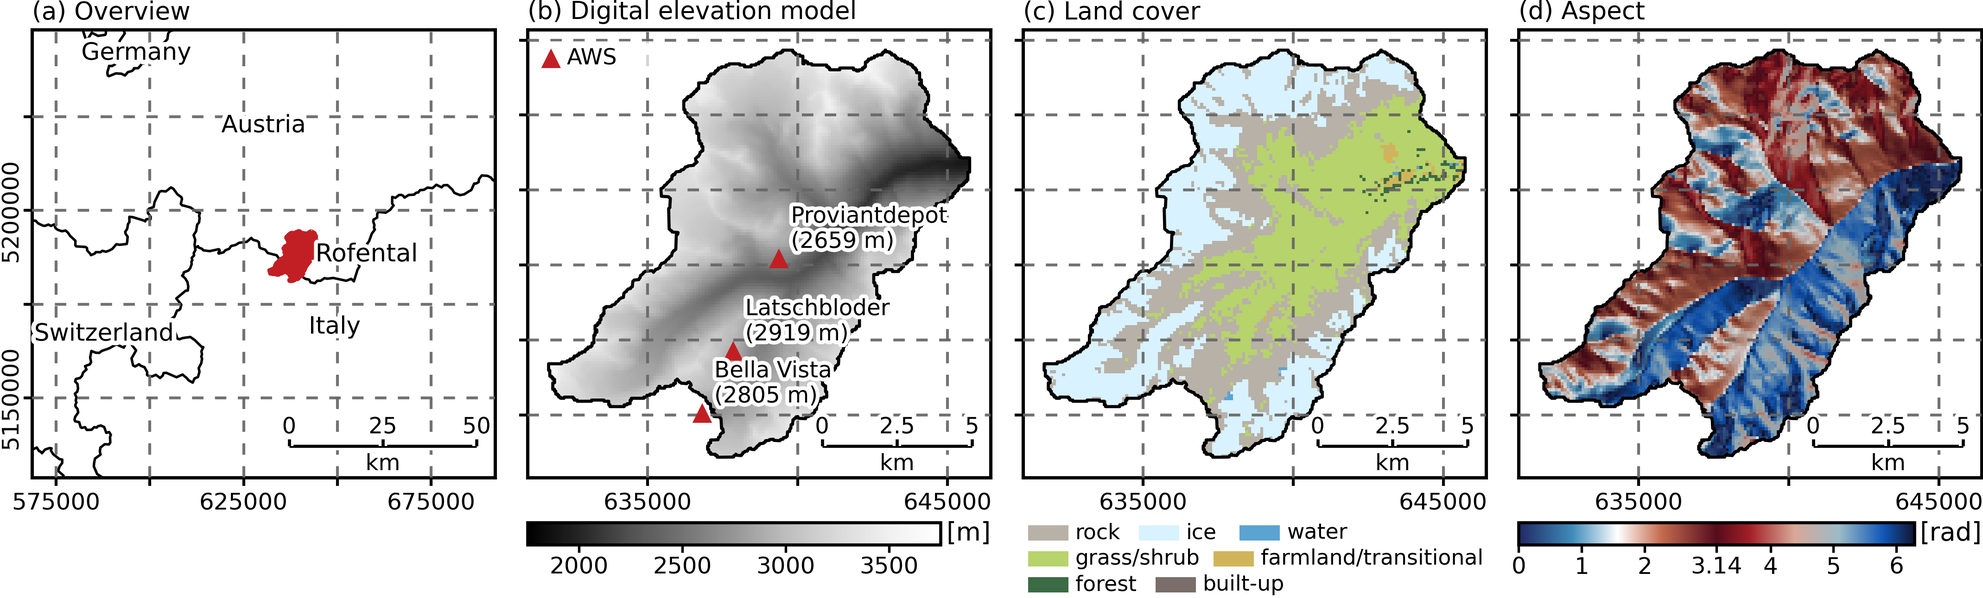
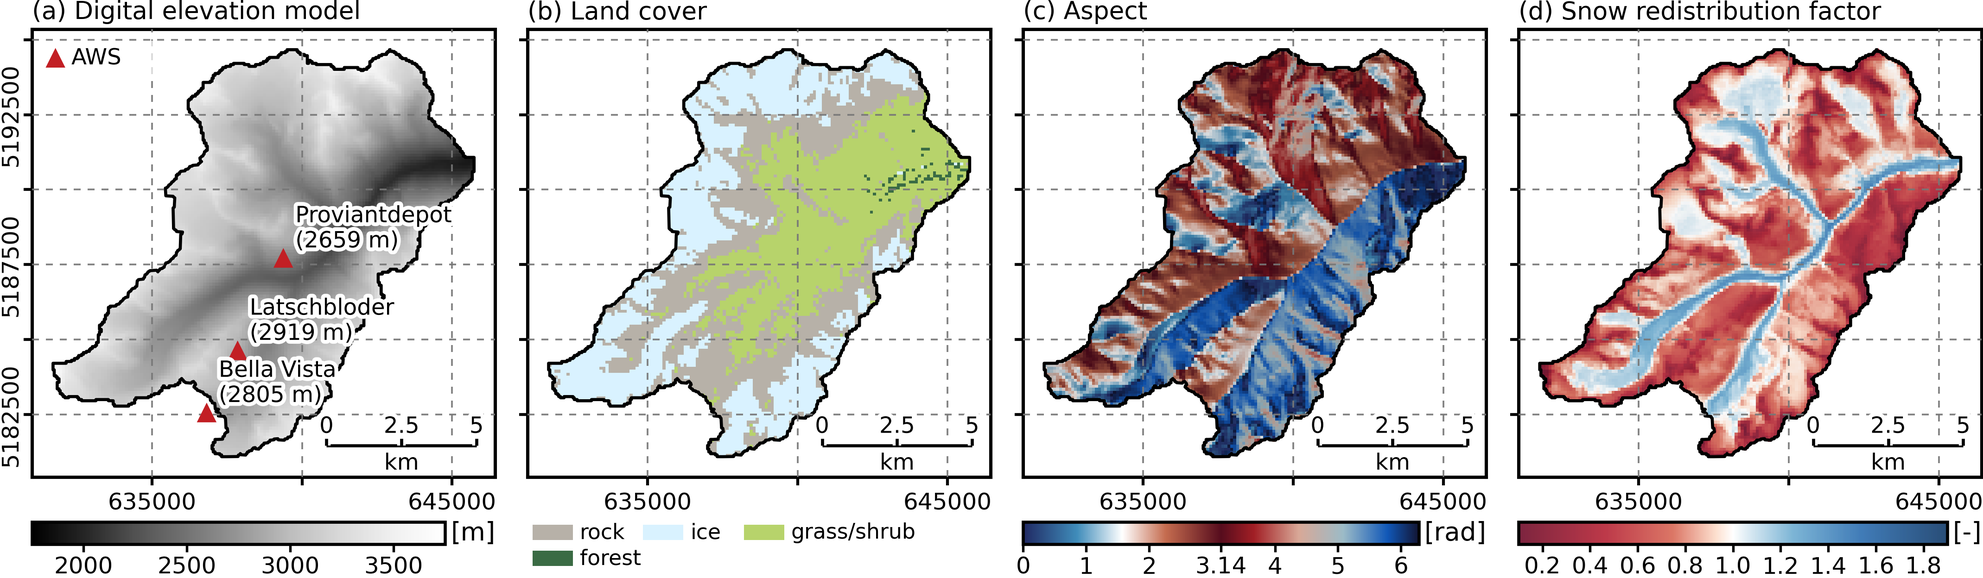
Refine Rofental map styling

diff --git a/tests/unit/test_project_maps.py b/tests/unit/test_project_maps.py
@@ -73,6 +73,7 @@ from openamundsen_da.methods.viz.maps.styles import (
     INCREMENT_CMAP,
     LANDCOVER_BROAD_CLASSES,
     LANDCOVER_COLORS,
+    LANDCOVER_ROFENTAL_MANUSCRIPT_CLASSES,
     SNOW_DEPTH_REFERENCE_TICKS_M,
     WET_SNOW_COLORS,
     WET_SNOW_LABELS,
@@ -88,7 +89,7 @@ from openamundsen_da.methods.viz.maps.styles import (
     static_field_cmap,
     static_field_colorbar_style,
 )
-from openamundsen_da.methods.viz.maps.theme import _COLORBAR_TICK_SIZE, _OVERVIEW_ROI_COLOR, _STATION_COLOR, _TICK_SIZE
+from openamundsen_da.methods.viz.maps.theme import _COLORBAR_TICK_SIZE, _GRID_COLOR, _GRID_WIDTH, _OVERVIEW_ROI_COLOR, _STATION_COLOR, _TICK_SIZE
 from openamundsen_da.util.run_mode import write_run_mode
 
 
@@ -1641,20 +1642,21 @@ def test_shipped_rofental_project_maps_config_matches_curated_recipe_set() -> No
     assert cfg.maps[0].layout.nrows == 1
     assert cfg.maps[0].layout.ncols == 4
     assert [panel.title for panel in cfg.maps[0].panels] == [
-        "Overview",
         "Digital elevation model",
         "Land cover",
         "Aspect",
+        "Snow redistribution factor",
     ]
-    assert [panel.kind for panel in cfg.maps[0].panels] == ["overview", "dem", "landcover", "aspect"]
+    assert [panel.kind for panel in cfg.maps[0].panels] == ["dem", "landcover", "aspect", "srf"]
     assert [(panel.row, panel.col) for panel in cfg.maps[0].panels] == [(0, 0), (0, 1), (0, 2), (0, 3)]
-    assert cfg.maps[0].panels[1].show_station_marker is True
-    assert cfg.maps[0].panels[1].show_stations_name is True
-    assert cfg.maps[0].panels[1].show_stations_elev is True
-    assert cfg.maps[0].panels[1].below_items == ()
-    assert cfg.maps[0].panels[1].inside_legend_items[0].label == "AWS"
-    assert cfg.maps[0].panels[2].landcover_grouping == "broad"
-    assert cfg.maps[0].panels[3].legend == "horizontal"
+    assert cfg.maps[0].panels[0].show_station_marker is True
+    assert cfg.maps[0].panels[0].show_stations_name is True
+    assert cfg.maps[0].panels[0].show_stations_elev is True
+    assert cfg.maps[0].panels[0].below_items == ()
+    assert cfg.maps[0].panels[0].inside_legend_items[0].label == "AWS"
+    assert cfg.maps[0].panels[1].landcover_grouping == "rofental_manuscript"
+    assert cfg.maps[0].panels[2].legend == "horizontal"
+    assert cfg.maps[0].panels[3].show_hillshade is True
 
 
 def test_shipped_subdomain_project_maps_config_keeps_generic_setup_overview_only() -> None:
@@ -2808,6 +2810,59 @@ def test_aspect_panel_masks_flat_no_aspect_cells(tmp_path: Path) -> None:
         plt.close(fig)
 
 
+def test_static_continuous_panel_can_use_hillshade_underlay(tmp_path: Path) -> None:
+    roi_mask = np.array(
+        [
+            [0, 0, 0, 0],
+            [0, 1, 1, 0],
+            [0, 1, 1, 0],
+            [0, 0, 0, 0],
+        ],
+        dtype=np.uint8,
+    )
+    _setup_dir, project_dir = _build_project_fixture(
+        tmp_path,
+        roi_mask=roi_mask,
+        roi_bounds=(100.0, 100.0, 300.0, 300.0),
+    )
+    context = load_static_context(project_dir)
+    extent = buffered_extent(context)
+    grid_extent = render_module._grid_extent(context)
+    fig_plain, ax_plain = plt.subplots(figsize=(3, 3))
+    fig_shaded, ax_shaded = plt.subplots(figsize=(3, 3))
+    try:
+        render_module._render_static_panel(
+            ax_plain,
+            panel=MapPanelSpec(kind="srf", row=0, col=0, show_colorbar=False),
+            context=context,
+            extent=extent,
+            grid_extent=grid_extent,
+            label=None,
+            defaults=MapDefaults(),
+            figure_horizontal_default=True,
+        )
+        render_module._render_static_panel(
+            ax_shaded,
+            panel=MapPanelSpec(kind="srf", row=0, col=0, show_colorbar=False, show_hillshade=True),
+            context=context,
+            extent=extent,
+            grid_extent=grid_extent,
+            label=None,
+            defaults=MapDefaults(),
+            figure_horizontal_default=True,
+        )
+
+        assert len(ax_plain.images) == 1
+        assert len(ax_shaded.images) == 2
+        underlay = np.ma.asarray(ax_shaded.images[0].get_array())
+        assert np.ma.getmaskarray(underlay)[0, 0]
+        assert not np.ma.getmaskarray(underlay)[1, 1]
+        assert ax_shaded.images[1].get_alpha() == pytest.approx(0.86)
+    finally:
+        plt.close(fig_plain)
+        plt.close(fig_shaded)
+
+
 def test_aspect_panel_uses_horizontal_radian_colorbar(tmp_path: Path) -> None:
     _setup_dir, project_dir = _build_project_fixture(tmp_path)
     context = load_static_context(project_dir)
@@ -3395,12 +3450,21 @@ def test_snowdepth_colorbar_ticks_keep_reference_style_with_dynamic_top_bin() ->
     assert snow_depth_colorbar_ticklabels(vmax) == ("0.01", "0.5", "1", "1.5", "2", "2.25")
 
 
-def test_increment_cmap_runs_from_negative_red_to_positive_blue() -> None:
+def test_increment_cmap_uses_compact_neutral_negative_red_positive_blue() -> None:
     low = INCREMENT_CMAP(0.0)
+    near_low = INCREMENT_CMAP(0.46)
+    center = INCREMENT_CMAP(0.5)
+    near_high = INCREMENT_CMAP(0.54)
     high = INCREMENT_CMAP(1.0)
 
+    assert INCREMENT_CMAP.name == "oa_da_diverging_compact"
     assert low[0] > low[2]
+    assert near_low[0] > near_low[2]
+    assert min(center[:3]) > 0.98
+    assert near_high[2] > near_high[0]
     assert high[2] > high[0]
+    assert sum(1.0 - value for value in near_low[:3]) > 0.20
+    assert sum(1.0 - value for value in near_high[:3]) > 0.12
 
 
 def test_scf_observation_palette_uses_greys_for_example_map_style() -> None:
@@ -3416,8 +3480,9 @@ def test_static_field_palettes_follow_reference_style() -> None:
 
     dem_cmap = static_field_cmap(dem_preset)
     svf_cmap = static_field_cmap(require_static_field_preset("svf"))
-    srf_cmap = static_field_cmap(require_static_field_preset("srf"))
-    srf_style = static_field_colorbar_style(require_static_field_preset("srf"))
+    srf_preset = require_static_field_preset("srf")
+    srf_cmap = static_field_cmap(srf_preset)
+    srf_style = static_field_colorbar_style(srf_preset)
 
     dem_low = dem_cmap(0.0)
     dem_high = dem_cmap(1.0)
@@ -3435,7 +3500,8 @@ def test_static_field_palettes_follow_reference_style() -> None:
     )
     assert static_field_colorbar_style(dem_preset, np.array([450.0, 1670.0])).ticks == (500.0, 1000.0, 1500.0)
     assert svf_cmap.name == "viridis"
-    assert srf_cmap.name == "RdBu"
+    assert srf_preset.cmap_name == "oa_da_diverging_compact"
+    assert srf_cmap is INCREMENT_CMAP
     assert sum(dem_high[:3]) > sum(dem_low[:3])
     assert sum(svf_high[:3]) > sum(svf_low[:3])
     assert srf_low[0] > srf_low[2]
@@ -3467,6 +3533,12 @@ def test_landcover_reference_colors_use_categorical_palette() -> None:
         LANDCOVER_COLORS[6],
         LANDCOVER_COLORS[10],
         LANDCOVER_COLORS[13],
+    ]
+    assert [(item.label, item.source_codes) for item in LANDCOVER_ROFENTAL_MANUSCRIPT_CLASSES] == [
+        ("rock", (1, 13)),
+        ("ice", (2, 3)),
+        ("grass/shrub", (4, 5, 6, 7)),
+        ("forest", (8, 9, 10, 11, 12)),
     ]
 
 
@@ -3517,6 +3589,8 @@ def test_map_axis_style_places_title_above_axes_and_can_hide_nonfirstcolumn_ylab
         assert all(not tick.label2.get_visible() for tick in ax.yaxis.get_major_ticks())
         assert grid_lines
         assert all(line.get_zorder() == 120 for line in grid_lines)
+        assert all(line.get_color() == _GRID_COLOR for line in grid_lines)
+        assert all(line.get_linewidth() == pytest.approx(_GRID_WIDTH) for line in grid_lines)
     finally:
         plt.close(fig)
 

diff --git a/openamundsen_da/methods/viz/maps/styles.py b/openamundsen_da/methods/viz/maps/styles.py
@@ -110,7 +110,7 @@ STATIC_FIELD_PRESETS = {
         field="srf",
         title="Snow redistribution factor",
         unit_label="SRF [-]",
-        cmap_name="RdBu",
+        cmap_name="oa_da_diverging_compact",
         vmin=0.1,
         vmax=1.9,
         center=1.0,
@@ -172,7 +172,7 @@ LANDCOVER_LABELS = {
 }
 
 UNKNOWN_LANDCOVER_COLOR = "#d9d9d9"
-SUPPORTED_LANDCOVER_GROUPINGS = {"native", "broad"}
+SUPPORTED_LANDCOVER_GROUPINGS = {"native", "broad", "rofental_manuscript"}
 LANDCOVER_BROAD_CLASSES = (
     LandcoverDisplayClass(1, "rock", LANDCOVER_COLORS[1], (1,)),
     LandcoverDisplayClass(2, "ice", LANDCOVER_COLORS[2], (2,)),
@@ -181,6 +181,12 @@ LANDCOVER_BROAD_CLASSES = (
     LandcoverDisplayClass(5, "farmland/transitional", LANDCOVER_COLORS[6], (6, 7)),
     LandcoverDisplayClass(6, "forest", LANDCOVER_COLORS[10], (8, 9, 10, 11, 12)),
     LandcoverDisplayClass(7, "built-up", LANDCOVER_COLORS[13], (13,)),
+)
+LANDCOVER_ROFENTAL_MANUSCRIPT_CLASSES = (
+    LandcoverDisplayClass(1, "rock", LANDCOVER_COLORS[1], (1, 13)),
+    LandcoverDisplayClass(2, "ice", LANDCOVER_COLORS[2], (2, 3)),
+    LandcoverDisplayClass(3, "grass/shrub", LANDCOVER_COLORS[4], (4, 5, 6, 7)),
+    LandcoverDisplayClass(4, "forest", LANDCOVER_COLORS[10], (8, 9, 10, 11, 12)),
 )
 
 FSC_OBS_CMAP = colormaps["Greys"]
@@ -214,7 +220,27 @@ def _snow_depth_reference_cmap() -> LinearSegmentedColormap:
 
 
 SNOW_DEPTH_CMAP = _snow_depth_reference_cmap()
-INCREMENT_CMAP = colormaps["RdBu"]
+
+
+def _compact_diverging_cmap() -> LinearSegmentedColormap:
+    return LinearSegmentedColormap.from_list(
+        "oa_da_diverging_compact",
+        (
+            (0.00, "#67001f"),
+            (0.20, "#b2182b"),
+            (0.36, "#d6604d"),
+            (0.46, "#fddbc7"),
+            (0.50, "#ffffff"),
+            (0.54, "#d1e5f0"),
+            (0.64, "#67a9cf"),
+            (0.80, "#2166ac"),
+            (1.00, "#053061"),
+        ),
+        N=512,
+    )
+
+
+INCREMENT_CMAP = _compact_diverging_cmap()
 SNOW_DEPTH_COLORBAR_STEPS_M = (0.05, 0.10, 0.25, 0.50, 1.0)
 ASPECT_COLORBAR_TICKS_RAD = (0.0, 1.0, 2.0, math.pi, 4.0, 5.0, 6.0)
 ASPECT_COLORBAR_TICKLABELS = ("0", "1", "2", "3.14", "4", "5", "6")
@@ -326,12 +352,19 @@ def landcover_classes_for_present_codes(
 ) -> tuple[LandcoverDisplayClass, ...]:
     token = normalize_landcover_grouping(grouping)
     if token == "broad":
+        grouping_classes = LANDCOVER_BROAD_CLASSES
+    elif token == "rofental_manuscript":
+        grouping_classes = LANDCOVER_ROFENTAL_MANUSCRIPT_CLASSES
+    else:
+        grouping_classes = ()
+
+    if grouping_classes:
         classes = [
             item
-            for item in LANDCOVER_BROAD_CLASSES
+            for item in grouping_classes
             if not present_source_codes or any(source_code in present_source_codes for source_code in item.source_codes)
         ]
-        covered_codes = {source_code for item in LANDCOVER_BROAD_CLASSES for source_code in item.source_codes}
+        covered_codes = {source_code for item in grouping_classes for source_code in item.source_codes}
     else:
         codes = sorted(present_source_codes) if present_source_codes else list(LANDCOVER_LABELS)
         classes = [
@@ -397,6 +430,8 @@ def model_colorbar_style(preset: VariablePreset, *, vmax: float | None = None) -
 def static_field_cmap(preset: StaticFieldPreset):
     if preset.field == "landcover":
         raise ValueError("Landcover colors are derived from present codes")
+    if preset.cmap_name == INCREMENT_CMAP.name:
+        return INCREMENT_CMAP
     return colormaps[preset.cmap_name]
 
 

diff --git a/openamundsen_da/methods/viz/maps/panel_renderers.py b/openamundsen_da/methods/viz/maps/panel_renderers.py
@@ -1311,7 +1311,26 @@ def render_static_panel(
     raw_data = field_array(context, field)
     data = masked(raw_data, context.roi_mask)
     norm = static_field_norm(preset, data.filled(np.nan))
-    image = ax.imshow(data, cmap=static_field_cmap(preset), norm=norm, extent=panel_grid_extent, origin="upper", interpolation="nearest", zorder=5)
+    alpha = 1.0
+    if resolve_flag(panel.show_hillshade, defaults, "show_hillshade", False):
+        hillshade_mode = resolve_hillshade_extent(panel, defaults, builtin="roi")
+        underlay = (
+            hillshade_underlay(context, derived_cache=derived_cache)
+            if hillshade_mode == "roi"
+            else hillshade(context, derived_cache=derived_cache)
+        )
+        ax.imshow(
+            underlay,
+            cmap="Greys_r",
+            extent=hillshade_extent(context),
+            origin="upper",
+            interpolation=_HILLSHADE_INTERPOLATION,
+            vmin=0.0,
+            vmax=1.0,
+            zorder=0,
+        )
+        alpha = 0.86
+    image = ax.imshow(data, cmap=static_field_cmap(preset), norm=norm, extent=panel_grid_extent, origin="upper", interpolation="nearest", alpha=alpha, zorder=5)
     overlay_invalid_inside_roi(ax, inside_roi_invalid_mask(raw_data, context.roi_mask), extent=panel_grid_extent)
     apply_common_overlays(
         ax,

diff --git a/openamundsen_da/methods/viz/maps/config.py b/openamundsen_da/methods/viz/maps/config.py
@@ -59,7 +59,7 @@ SUPPORTED_LEGEND_ITEM_PLACEMENTS = {"below", "inside"}
 SUPPORTED_LEGEND_ITEM_ANCHORS = {"top_left", "top_right", "bottom_left", "bottom_right"}
 SUPPORTED_PANEL_LEGEND_LAYOUTS = {"horizontal", "vertical"}
 SUPPORTED_HILLSHADE_EXTENTS = {"full", "roi"}
-SUPPORTED_LANDCOVER_GROUPINGS = {"native", "broad"}
+SUPPORTED_LANDCOVER_GROUPINGS = {"native", "broad", "rofental_manuscript"}
 _REMOVED_PANEL_KEYS = {"variable", "metric", "observation", "field", "style", "legend_inside"}
 _REMOVED_LAYOUT_KEYS = {"wspace", "hspace"}
 _REMOVED_PANEL_KINDS = {"stations", "static_field", "model_field", "increment_field", "observation_field", "roi_overview", "text"}

diff --git a/openamundsen_da/methods/viz/maps/theme.py b/openamundsen_da/methods/viz/maps/theme.py
@@ -5,9 +5,9 @@ _FIGURE_HEIGHT_MIN = 2.9
 _FIGURE_HEIGHT_MAX = 16.5
 _BUFFER_RATIO = 0.05
 _STATION_LABEL_RATIO = 0.04
-_GRID_COLOR = "#666666"
+_GRID_COLOR = "#777777"
 _GRID_STYLE = (0, (4, 4))
-_GRID_WIDTH = 0.74
+_GRID_WIDTH = 0.45
 _SPINE_WIDTH = 0.85
 _TICK_SIZE = 6.0
 _TICK_LABEL_MIN_GAP_IN = 0.42

diff --git a/docs/guides/cli.md b/docs/guides/cli.md
@@ -562,7 +562,7 @@ oa-da-plot-result-overview \
 **Publication-style project maps**
 
 Renders generated DA-event maps plus optional custom project maps from the compact project summary grid, setup grids, ROI, stations, and project observation summaries. By default the command generates one `da_*` map per assimilation event from the project YAML. `<project-dir>/maps.yml` is now reserved for custom maps such as `setup_overview`, and those custom maps are rendered together with the generated DA-event set in one command. The same workflow is also used for best-effort post-run pipeline rendering.
-Map panels use the example-map visual grammar by default: boxed axes, coordinate ticks and grid lines, subplot labels like `(a)`, and attached vertical colorbars. Continuous sequential model and observation maps use the viridis palette; snow-depth maps keep a shared linear colorbar scale per render run, `cm` tick labels, and transparent cells below `1 cm`. Increment maps and SRF maps use a signed red-blue diverging palette, with negative increments in red and positive increments in blue.
+Map panels use the example-map visual grammar by default: boxed axes, coordinate ticks and grid lines, subplot labels like `(a)`, and attached vertical colorbars. Continuous sequential model and observation maps use the viridis palette; snow-depth maps keep a shared linear colorbar scale per render run, `cm` tick labels, and transparent cells below `1 cm`. Increment maps and SRF maps use a compact-neutral signed red-blue diverging palette, with negative increments in red and positive increments in blue.
 
 Typical custom `maps.yml` files still use this panel catalog:
 
@@ -590,7 +590,7 @@ Typical custom `maps.yml` files still use this panel catalog:
 # - title, name, date, legend, legend_items, below_items
 # - show_colorbar, show_scalebar, show_grid, show_hillshade, hillshade_extent
 # - observation (uncertainty only), show_roi, show_station_marker, show_stations_name, show_stations_elev
-# - landcover_grouping: broad # landcover panels only; omitted/native keeps source classes
+# - landcover_grouping: broad | rofental_manuscript # landcover panels only; omitted/native keeps source classes
 # Optional recipe-level row zoom views:
 # row_views:
 #   - row: 1
@@ -616,7 +616,7 @@ oa-da-plot-project-maps \
 
 Generated `wet_snow` and `wet_snow_line` DA-event maps include a generated-only spatial elevation-band WSF row below the primary wet-snow row. Each panel keeps the map footprint, but every valid cell is colored by the raw wet snow fraction of its elevation band on a fixed white-to-black `0-100%` scale for open loop, posterior, and observation columns.
 
-Static context panels (`hillshade`, `dem`, `aspect`, `svf`, `srf`, `landcover`) mask raster cells outside the ROI. `aspect` is derived from the DEM at render time and shown on a continuous radian colorbar. `landcover` panels can set `landcover_grouping: broad` to merge detailed vegetation/forest classes into broad manuscript-friendly classes, and the legend only lists classes present inside the ROI. Non-legend panels can use `legend_items` with `placement: below` or `placement: inside` (`anchor: top_left|top_right|bottom_left|bottom_right`) for compact layer legends such as station symbols; legacy `below_items` remains supported. Model and observation panels remain ROI-masked. Prepared sub-domain projects automatically draw the configured sub-domain polygons from `subdomain_manifest.json` on top-level ROI-bearing map panels and overview panels. Generated DA-event maps mark a sub-domain as `no DA` only when the event was dropped locally and recorded in `results/subdomain_dropped_events.csv`; events with valid weights are not marked just because posterior resampling was skipped. When `show_hillshade: true`, `hillshade_extent: roi` limits the hillshade to the ROI mask and `hillshade_extent: full` draws it across the full panel. In the supported Docker workflow, omitted `--max-workers` uses automatic recipe-level multicore rendering with the effective worker count clamped to `min(visible CPUs, selected recipes)`; pass `--max-workers 1` to keep rendering sequential. If one or more maps fail because supporting data are missing, the pipeline logs a rerun command and continues. After changing shipped or local static grids, rerender the full local project-map catalog so mixed gallery outputs do not keep stale static panels.
+Static context panels (`hillshade`, `dem`, `aspect`, `svf`, `srf`, `landcover`) mask raster cells outside the ROI. `aspect` is derived from the DEM at render time and shown on a continuous radian colorbar. Continuous static panels such as `srf` can set `show_hillshade: true` to draw a terrain underlay. `landcover` panels can set `landcover_grouping: broad` to merge detailed vegetation/forest classes into broad manuscript-friendly classes, and the legend only lists classes present inside the ROI. The `rofental_manuscript` grouping is reserved for the Rofental paper/tutorial setup map, not for generic land-cover maps; it merges codes 1 and 13 as `rock`, 2 and 3 as `ice`, 4--7 as `grass/shrub`, and 8--12 as `forest`. Non-legend panels can use `legend_items` with `placement: below` or `placement: inside` (`anchor: top_left|top_right|bottom_left|bottom_right`) for compact layer legends such as station symbols; legacy `below_items` remains supported. Model and observation panels remain ROI-masked. Prepared sub-domain projects automatically draw the configured sub-domain polygons from `subdomain_manifest.json` on top-level ROI-bearing map panels and overview panels. Generated DA-event maps mark a sub-domain as `no DA` only when the event was dropped locally and recorded in `results/subdomain_dropped_events.csv`; events with valid weights are not marked just because posterior resampling was skipped. When `show_hillshade: true`, `hillshade_extent: roi` limits the hillshade to the ROI mask and `hillshade_extent: full` draws it across the full panel. In the supported Docker workflow, omitted `--max-workers` uses automatic recipe-level multicore rendering with the effective worker count clamped to `min(visible CPUs, selected recipes)`; pass `--max-workers 1` to keep rendering sequential. If one or more maps fail because supporting data are missing, the pipeline logs a rerun command and continues. After changing shipped or local static grids, rerender the full local project-map catalog so mixed gallery outputs do not keep stale static panels.
 
 The `uncertainty` panel renders GeoTIFF companion rasters named `<source>_uncertainty.tif` for `observation: scf` or `observation: wet_snow`. Values use the same `0..100 [%]` scale as uncertainty-aware preprocessing, and invalid observation pixels stay masked.
 

diff --git a/README.md b/README.md
@@ -537,7 +537,7 @@ Note: running the project pipeline (see below) also generates these plots automa
   # - title, name, date, legend, legend_items, below_items
   # - show_colorbar, show_scalebar, show_grid, show_hillshade, hillshade_extent
   # - observation (uncertainty only), show_roi, show_station_marker, show_stations_name, show_stations_elev
-  # - landcover_grouping: broad # landcover panels only; omitted/native keeps source classes
+  # - landcover_grouping: broad | rofental_manuscript # landcover panels only; omitted/native keeps source classes
   # Optional recipe-level row zoom views:
   # row_views:
   #   - row: 1
@@ -561,7 +561,7 @@ Note: running the project pipeline (see below) also generates these plots automa
   Generated DA-event rows use four consistent columns: `open loop`, `prior`, `posterior`, and `reference`. Snow-state reference columns show `analysis_increment` (`posterior - prior`, so positive values mean DA added snow/water). FSC and wet-snow reference columns show the satellite observation. Generated FSC, WSF, WSLA, and elevation-band WSF rows use spatial prior/posterior probability maps where applicable; WSLA contours are panel-local, so model columns do not overlay observation WSLA. Top-level sub-domain SCF events use a taller same-file layout with a 2x2 snow-cover block above the 2x2 snow-depth response block; exact rerendering requires retained per-sub-domain grids. If the event resampling manifest reports skipped resampling, the map title is suffixed with `resampling skipped`.
 
   By default the renderer parallelizes across independent recipe PNGs inside the Docker container and clamps the effective worker count to `min(visible CPUs, selected recipes)`; use `--max-workers 1` to force sequential rendering. `oa-da-project` and merged sub-domain runs also render project maps automatically as a best-effort post-run stage. If a map fails because supporting data are missing, the pipeline logs a rerun command and continues.
-  Project maps now use a simplified public panel catalog: context panels (`overview`, `roi`, `hillshade`, `dem`, `aspect`, `svf`, `srf`, `landcover`), result panels (`snow_depth`, `swe`, `liquid_water_content`, `fsc`, `wet_snow`, `uncertainty`, `wet_snow_line`, `wet_snow_elevation_fraction`), and optional support panels (`legend`, `colorbar`). Static context rasters are masked to the ROI; `aspect` is derived from the DEM at render time and shown on a continuous radian colorbar; `landcover` panels can set `landcover_grouping: broad` to merge detailed vegetation/forest classes into broad manuscript-friendly classes, and their legend only lists classes present inside the ROI. Non-legend panels can use `legend_items` with `placement: below` or `placement: inside` (`anchor: top_left|top_right|bottom_left|bottom_right`) for compact layer legends such as station symbols; legacy `below_items` remains supported. `uncertainty` renders `*_uncertainty.tif` companion rasters for `observation: scf` or `observation: wet_snow` on the valid observation support. In prepared sub-domain projects, top-level project maps automatically overlay the configured sub-domain polygons from `subdomain_manifest.json` on ROI-bearing map panels and overview panels. Generated DA-event maps additionally mark sub-domain polygons as `no DA` only when that event was dropped for the sub-domain and recorded in `results/subdomain_dropped_events.csv`; healthy events with computed weights are not marked just because resampling was skipped. Recipe-level `row_views` can assign a shared Google/Slippy-map zoom extent to every panel in a row. `wet_snow` renders WSF, while `wet_snow_line` renders the wet-snow raster context together with a DEM contour at the diagnosed WSLA. `prior_probability` and `posterior_probability` sources render spatial ensemble probability fields; observation overlays are kept in observation/reference panels.
+  Project maps now use a simplified public panel catalog: context panels (`overview`, `roi`, `hillshade`, `dem`, `aspect`, `svf`, `srf`, `landcover`), result panels (`snow_depth`, `swe`, `liquid_water_content`, `fsc`, `wet_snow`, `uncertainty`, `wet_snow_line`, `wet_snow_elevation_fraction`), and optional support panels (`legend`, `colorbar`). Static context rasters are masked to the ROI; `aspect` is derived from the DEM at render time and shown on a continuous radian colorbar, continuous static panels such as `srf` can use `show_hillshade: true` for a terrain underlay, and SRF and increment maps share a compact-neutral signed red-blue diverging palette. `landcover` panels can set `landcover_grouping: broad` to merge detailed vegetation/forest classes into broad manuscript-friendly classes, and their legend only lists classes present inside the ROI. The `rofental_manuscript` grouping is a Rofental paper/tutorial grouping, not a generic land-cover classification; it merges codes 1 and 13 as `rock`, 2 and 3 as `ice`, 4--7 as `grass/shrub`, and 8--12 as `forest`. Non-legend panels can use `legend_items` with `placement: below` or `placement: inside` (`anchor: top_left|top_right|bottom_left|bottom_right`) for compact layer legends such as station symbols; legacy `below_items` remains supported. `uncertainty` renders `*_uncertainty.tif` companion rasters for `observation: scf` or `observation: wet_snow` on the valid observation support. In prepared sub-domain projects, top-level project maps automatically overlay the configured sub-domain polygons from `subdomain_manifest.json` on ROI-bearing map panels and overview panels. Generated DA-event maps additionally mark sub-domain polygons as `no DA` only when that event was dropped for the sub-domain and recorded in `results/subdomain_dropped_events.csv`; healthy events with computed weights are not marked just because resampling was skipped. Recipe-level `row_views` can assign a shared Google/Slippy-map zoom extent to every panel in a row. `wet_snow` renders WSF, while `wet_snow_line` renders the wet-snow raster context together with a DEM contour at the diagnosed WSLA. `prior_probability` and `posterior_probability` sources render spatial ensemble probability fields; observation overlays are kept in observation/reference panels.
 
 - Project plots (all post-run plots without rerunning DA):
 

diff --git a/docs/Tutorial/03-example-data-rofental.md b/docs/Tutorial/03-example-data-rofental.md
@@ -12,9 +12,9 @@ The tutorial uses the bundled Rofental setup as one concrete, reproducible examp
 This page describes that example once so later chapters do not need to repeat the same
 context.
 
-![Rofental tutorial setup overview map (domain, forcing stations, and land-cover layer)]({{ site.baseurl }}/assets/images/tutorial/rofental_2022_2023_es30/setup_overview.png)
+![Rofental tutorial setup overview map with DEM, forcing stations, land cover, aspect and SRF]({{ site.baseurl }}/assets/images/tutorial/rofental_2022_2023_es30/setup_overview.png)
 
-*Rofental tutorial setup map rendered from `projects/project_2022_2023/maps.yml`, showing the model domain, forcing stations, and land-cover context used throughout the tutorial.*
+*Rofental tutorial setup map rendered from `projects/project_2022_2023/maps.yml`, showing the DEM with forcing stations, the Rofental manuscript land-cover grouping, aspect and the snow redistribution factor (SRF).*
 
 ## What Is Included
 

diff --git a/docs/Tutorial/05-pre-processing.md b/docs/Tutorial/05-pre-processing.md
@@ -34,10 +34,10 @@ required station metadata are missing, preprocessing or the later project run
 fails instead of guessing.
 
 The same YAML-driven setup map used earlier in the tutorial is a useful reference
-while checking ROI coverage, station locations, and the static land-cover context
-that later influences preprocessing:
+while checking ROI coverage, station locations, static land-cover context and
+the snow redistribution factor (SRF):
 
-![Rofental tutorial setup overview map (ROI, stations, and land-cover context)]({{ site.baseurl }}/assets/images/tutorial/rofental_2022_2023_es30/setup_overview.png)
+![Rofental tutorial setup overview map with DEM, forcing stations, land cover, aspect and SRF]({{ site.baseurl }}/assets/images/tutorial/rofental_2022_2023_es30/setup_overview.png)
 
 Selected sections from
 `/data/rofental/projects/project_2022_2023/project_2022_2023.yml`:
